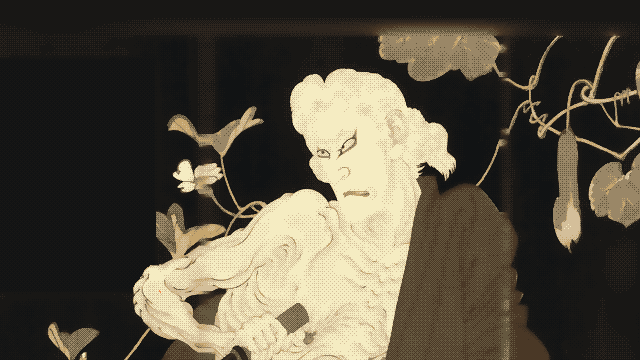
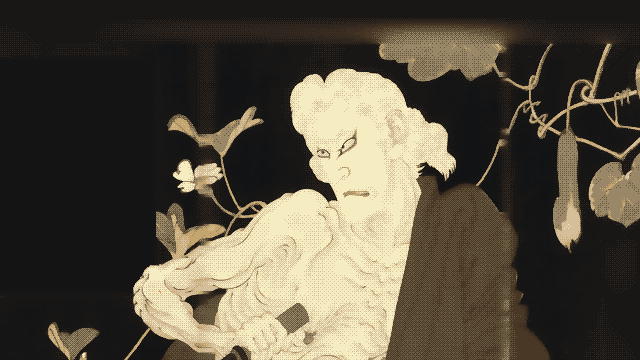
the lock's wall fuller: the war marching along the beam, crests and cracks in the stone; the bud's petals each their own tip

Changed region(s): [[0.5312, 0.0611, 0.8125, 0.1222], [0.9375, 0.0917, 0.9688, 0.1222], [0.8438, 0.0917, 0.875, 0.1222]]

diff --git a/tools/build-lock.py b/tools/build-lock.py
@@ -417,6 +417,40 @@ def mandorla(r, cx, cy, base=92, short=30, long_=56, seed=3, n=30):
         r.line(r.stroke([at(base + 14, 0.0), at(base + ln * 0.45, 0.05), at(base + ln * 0.68, 0.12)]))
 
 
+def rel_line(pts):
+    return Canvas(W, H).stroke_mask(pts, 1.0)
+
+
+def frieze(heaven=False):
+    """the beam's carving: small fighters marching on the middle, clouds and fire between them —
+    the oni on the dungeon's, the tennin on the temple's"""
+    fz = Relief()
+    for x, sgn in ((36, False), (604, True), (166, False), (474, True)):
+        cloud(fz, x, 35, 0.5, sgn)
+    for x in (98, 542, 232, 408):
+        fire(fz, x, 41, 13, 0.55, x)
+    if heaven:
+        for x, kind, flip in ((64, "dive", False), (576, "dive", True), (134, "sword", False), (506, "sword", True), (198, "bow", False), (442, "bow", True)):
+            angel_fig(fz, Place(x, 35, 0.4, flip=flip), ANGEL[kind])
+    else:
+        for x, kind, flip in ((64, "lunge", False), (576, "lunge", True), (134, "swing", False), (506, "swing", True), (198, "brace", False), (442, "brace", True)):
+            oni_fig(fz, Place(x, 41, 0.42, flip=flip), ONI[kind])
+    return fz
+
+
+def tomoe(r, x, y, rad=10):
+    """mitsudomoe: three commas in a ring, the crest of a temple's eaves"""
+    yy, xx = np.mgrid[0:H, 0:W]
+    d = np.hypot(xx + 0.5 - x, yy + 0.5 - y)
+    r.add(d < rad)
+    for i in range(3):
+        a = 2 * math.pi * i / 3 - math.pi / 2
+        hx, hy = x + rad * 0.42 * math.cos(a), y + rad * 0.42 * math.sin(a)
+        r.L |= (np.hypot(xx + 0.5 - hx, yy + 0.5 - hy) < rad * 0.27) & (d < rad)
+        tail = [(hx, hy), (x + rad * 0.72 * math.cos(a + 0.8), y + rad * 0.72 * math.sin(a + 0.8)), (x + rad * 0.5 * math.cos(a + 1.75), y + rad * 0.5 * math.sin(a + 1.75))]
+        r.L |= r.stroke(tail, rad * 0.32, 1.0) & (d < rad)
+
+
 def lettered(quote):
     """The quote in Sumi UI at its own pixels (14 px a character, 2 px apart), cropped to its ink."""
     font = ImageFont.truetype(str(FONT), 14)
@@ -493,21 +527,34 @@ def dark_ground():
     t[45] = 5
     t[46:49] = 0
 
-    # the frieze in the beam: a march of clouds and fire
-    fz = Relief()
-    for x, sgn in ((36, False), (112, True), (190, False), (452, True), (530, False), (606, True)):
-        cloud(fz, x, 31, 0.62, sgn)
-    for x in (74, 150, 228, 412, 492, 568):
-        fire(fz, x, 41, 14, 0.62, x)
+    # the frieze in the beam: the same war marching toward the middle, small
+    fz = frieze()
     band = np.zeros((H, W), bool)
     band[16:42] = True
     fm = fz.M & band
     t[li.behind(fm) & band] = 0
-    t[fm] = 3
+    t[fm] = 4
     lit, dark = li.bevel(fm)
-    t[lit] = 5
+    t[lit] = 6
     t[dark] = 2
     t[fm & fz.L] = 1
+
+    # on the stones in the light: crests cut long ago (mitsudomoe), cracks
+    crests = Relief()
+    for x, y in ((40, 112), (178, 96), (462, 96), (600, 112)):
+        tomoe(crests, x, y)
+    cm = crests.M & stone
+    t[li.behind(cm) & stone] = np.maximum(t[li.behind(cm) & stone] - 1, 0)
+    t[cm] += 1
+    lit, _ = li.bevel(cm)
+    t[lit] += 1
+    t[cm & crests.L] = 1
+    for _ in range(46):            # the cracks: a line that wanders across a stone or two
+        x, y = rng.uniform(0, W), rng.uniform(49, 168)
+        pts = [(x, y)]
+        for _ in range(int(rng.integers(2, 5))):
+            pts.append((pts[-1][0] + rng.uniform(-10, 10), pts[-1][1] + rng.uniform(2, 8)))
+        t[rel_line(pts) & stone] = 0
 
     # the panels: carved battles
     rel = Relief()
@@ -533,10 +580,10 @@ def dark_ground():
             t[rel.stroke([(x - ln * math.cos(a), y - ln * math.sin(a)), (x, y + rng.uniform(-3, 3)), (x + ln * math.cos(a), y + ln * math.sin(a))]) & inside] = 2
         mr = rel.M & inside
         t[li.behind(mr) & inside] = 0
-        t[mr] = 4
+        t[mr] = 5
         lit, dark = li.bevel(mr)
-        t[lit] = 6
-        t[dark] = 2
+        t[lit] = 7
+        t[dark] = 3
         t[mr & rel.L] = 1
     # the light on what is carved: by the pixel, a step of dither at its edges
     carved = (yy < 49) | (yy >= 318)
@@ -545,6 +592,8 @@ def dark_ground():
     bay = np.array([[0, 2], [3, 1]])[yy % 2, xx % 2]
     rr = np.minimum(np.hypot(xx - TORCH_X[0], (yy - FLAME_Y) * 1.12), np.hypot(xx - TORCH_X[1], (yy - FLAME_Y) * 1.12)) + bay * 2.5
     k = np.where(rr < 80, 3, np.where(rr < 130, 2, np.where(rr < 190, 1, 0)))
+    for x0, y0, x1, y1 in panels:      # (the panels' figures hold their tone: the light never burns them out)
+        k[y0:y1, x0:x1] = np.minimum(k[y0:y1, x0:x1], 1)
     add = carved & (t > 0)
     t[add] += k[add]
     paint[t == 1] = ""
@@ -676,11 +725,10 @@ LAMP_FLAME = (8, 12)                                   # a lantern's flame frame
 def lantern(img, lx):
     """A hanging temple lantern (tsuri-dōrō) at x LX: its chain from the beam, the jewel, a
     six-sided bronze roof with curled tips, the fire box — a lattice lit from inside round a clear
-    window, where the module's flame burns —, its foot; ochre bronze lit from the left, verdigris
-    here and there."""
+    window, where the module's flame burns —, its foot; ochre bronze lit from the left."""
     px = img.load()
     d = ImageDraw.Draw(img)
-    br, br_hi, br_lo, pat = rgb(L["yellow"]), rgb(L["gold"]), rgb(L["lo"]), rgb(L["asagi"])
+    br, br_hi, br_lo = rgb(L["yellow"]), rgb(L["gold"]), rgb(L["lo"])
     for y in range(46, 48):
         px[lx, y] = br
     d.ellipse([lx - 3, 48, lx + 2, 53], fill=br, outline=br_lo)  # the jewel
@@ -696,8 +744,6 @@ def lantern(img, lx):
         px[x, 68] = br_lo
     for t in (-1, 1):
         px[lx + t * 23, 67] = px[lx + t * 24, 66] = br_lo
-    for y, x in ((65, lx - 14), (66, lx + 9), (64, lx + 17)):
-        px[x, y] = pat                                           # (verdigris, where rain sits)
     x0, x1, y0, y1 = lx - 11, lx + 10, 69, 101                   # the fire box
     d.rectangle([x0, y0, x1, y1], fill=br)
     d.rectangle([x0 + 2, y0 + 2, x1 - 2, y1 - 2], fill=rgb(L["key"]))
@@ -708,7 +754,6 @@ def lantern(img, lx):
     d.line([(x0, y0), (x1, y0)], fill=br_hi)
     d.line([(x0, y0), (x0, y1)], fill=br_hi)
     d.line([(x1, y0 + 1), (x1, y1)], fill=br_lo)
-    px[x0 + 1, y1 - 3] = px[x1 - 1, y0 + 4] = pat
     for i, y in enumerate(range(102, 108)):                      # the foot, narrowing
         hw = 10 - i * 1.2
         d.line([(int(lx - hw), y), (int(lx + hw), y)], fill=br if i < 5 else br_lo)
@@ -864,11 +909,7 @@ def light_scene():
     put(yy == 14, "G", fp)
     put((yy >= 43) & (yy < 45), "G", fp)
     put(yy == 45, "K", fp)
-    fz = Relief()
-    for x, sgn in ((36, False), (112, True), (190, False), (452, True), (530, False), (606, True)):
-        cloud(fz, x, 31, 0.62, sgn)
-    for x in (74, 150, 228, 412, 492, 568):
-        fire(fz, x, 41, 14, 0.62, x)
+    fz = frieze(heaven=True)
     band = (yy >= 16) & (yy < 42)
     put(fz.M & band, "G", fp)
     put(fz.M & fz.L & band, "r", fp)

diff --git a/tools/build-heads.py b/tools/build-heads.py
@@ -397,9 +397,9 @@ def oni(open_=0.0, w=216, h=326, f=1.0, top=30, mane=True):
 
 # ── the Kannon, large ────────────────────────────────────────────────────────────────────────
 
-def petal(c, P, bx, by, ang, ln, wd):
+def petal(c, P, bx, by, ang, ln, wd, red=0.64):
     """one lotus petal from its base: two brush curves meeting in a sharp tip; gofun, its tip the
-    seal's red over a step of dither, a key line, a vein"""
+    seal's red (from RED of its length) over a step of dither, a key line, a vein"""
     ca, sa = math.cos(ang), math.sin(ang)
 
     def at(u, v):
@@ -408,7 +408,7 @@ def petal(c, P, bx, by, ang, ln, wd):
     back = spline([at(ln, 0), at(ln * 0.82, -wd * 0.2), at(ln * 0.52, -wd * 0.5), at(ln * 0.22, -wd * 0.36), at(0, 0)], per=8)
     m = c.poly_mask(P([tuple(p) for p in side] + [tuple(p) for p in back[1:]]))
     c.fill(m, "P")
-    u0 = ln * 0.64
+    u0 = ln * red
     bowl = spline([at(u0 + ln * 0.12, wd * 0.6), at(u0, 0), at(u0 + ln * 0.12, -wd * 0.6)], per=8)
     tm = c.poly_mask(P([tuple(p) for p in bowl] + [at(ln * 1.1, -wd * 0.6), at(ln * 1.1, wd * 0.6)])) & m
     c.fill(tm, "R")
@@ -429,9 +429,12 @@ def lotus(c, P, o, f, top, by):
         for th in angles:
             sn, cs = math.sin(th * deg), math.cos(th * deg)
             bx, by_ = sn * 6 * (1 - e) + sn * hw * in_ * e, by * (1 - e) + (yc - cs * hh * in_) * e
-            tx, ty = sn * 5 * (1 - e) + (sn * hw * in_ + sn * l1) * e, (by - 88 + abs(th) / 180 * 16) * (1 - e) + (yc - cs * hh * in_ - cs * l1 * 0.62) * e
+            # (shut, each petal stands with a tip of its own, splayed: the far ones tallest)
+            shut_x = math.copysign(abs(sn) ** 0.5 * 15, sn) if abs(sn) > 0.01 else 0
+            shut_h = 90 - 30 * abs(sn) if cs >= 0 else 74 - 24 * abs(sn)
+            tx, ty = shut_x * (1 - e) + (sn * hw * in_ + sn * l1) * e, (by - shut_h) * (1 - e) + (yc - cs * hh * in_ - cs * l1 * 0.62) * e
             ln = math.hypot(tx - bx, ty - by_)
-            petal(c, P, bx, by_, math.atan2(tx - bx, by_ - ty), ln, 30 * (1 - e) + w1 * e)
+            petal(c, P, bx, by_, math.atan2(tx - bx, by_ - ty), ln, 26 * (1 - e) + w1 * e, 0.46 + 0.18 * e)
     # the far petals, the sides (shut, only those that show)
     ring((0, 24, -24) if e < 0.02 else (0, 24, -24, 48, -48, 72, -72, 96, -96), 54, 30)
     if e > 0.2:     # the heart: lacquer in a gold rim, where the password lies
